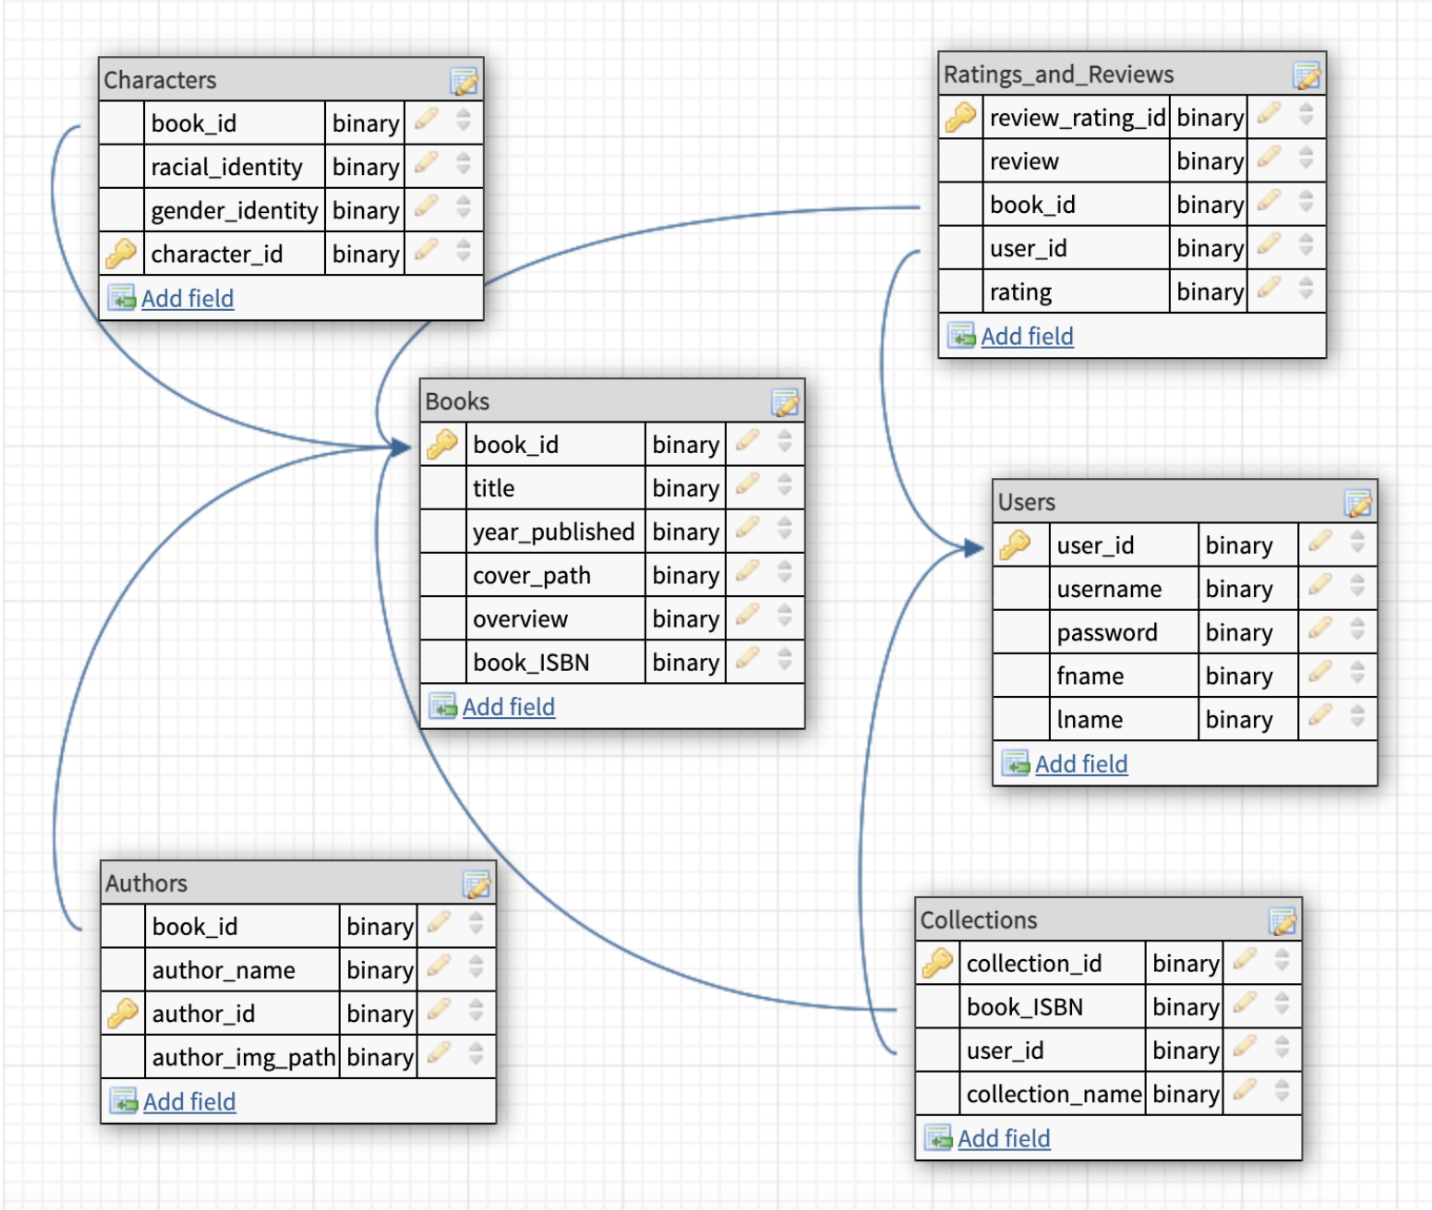
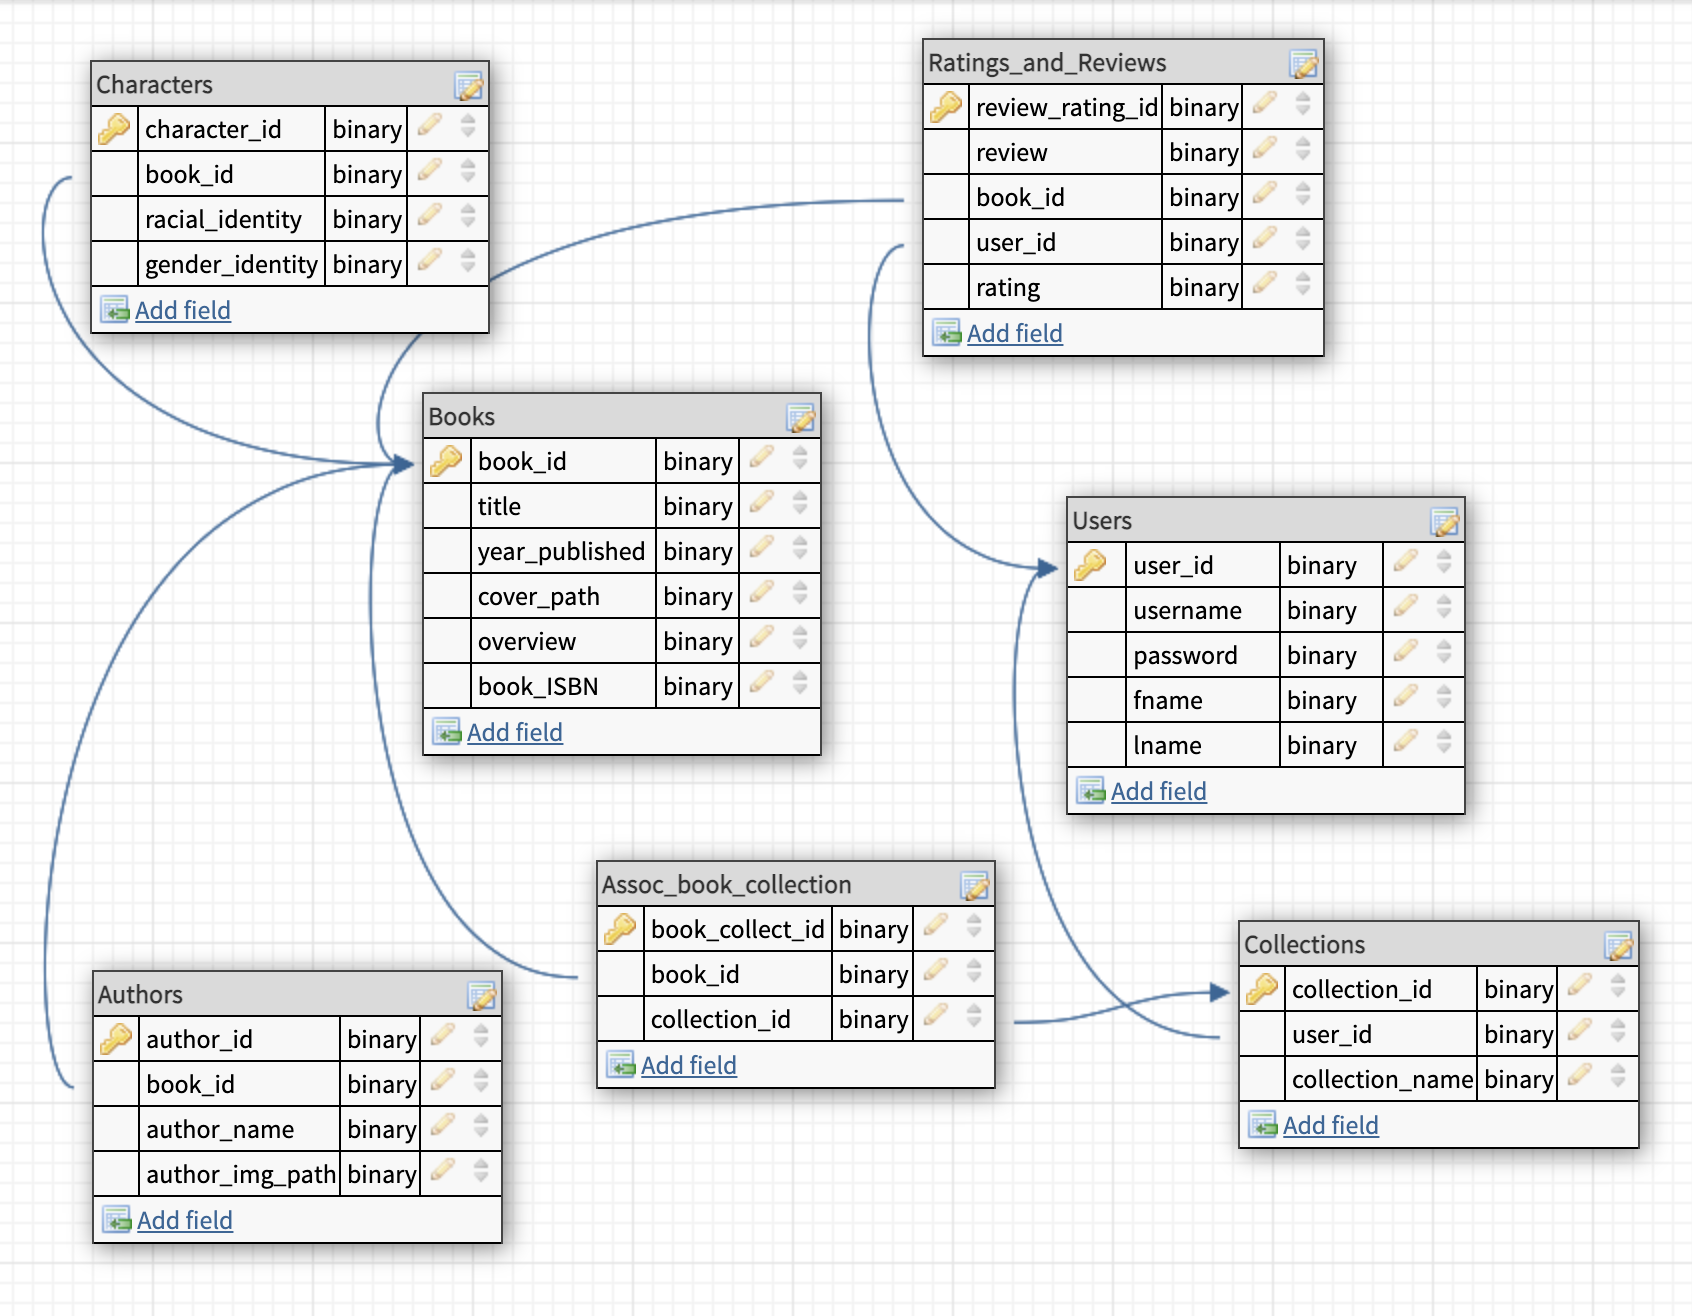
fixed bug on add collection form and updated model.py to have a collection/book association table

Changed region(s): [[0.0307, 0.0, 0.9832, 0.9785], [0.0922, 0.3058, 0.1536, 0.3364]]

diff --git a/templates/base.html b/templates/base.html
@@ -32,7 +32,7 @@
       <!-- navbar-light OR navbar-dark -->
       <nav class="navbar fixed-top navbar-expand-md navbar-dark bg-primary">
         <div class="container-fluid">
-          <a class="navbar-brand" href="/">EveryKid</a>
+          <a class="navbar-brand">EveryKid</a>
           <button class="navbar-toggler" type="button" data-bs-toggle="collapse" 
           data-bs-target="#navbarNavAltMarkup" aria-controls="navbarNavAltMarkup" 
           aria-expanded="false" aria-label="Toggle navigation">
@@ -40,7 +40,7 @@
           </button>
           <div class="collapse navbar-collapse" id="navbarNavAltMarkup">
             <div class="navbar-nav">
-              <a class="nav-link active" aria-current="page" href="/">Home</a>
+              <a class="nav-link active" aria-current="page" href="/">Find Books</a>
               <li class="nav-item dropdown">
                 <a class="nav-link dropdown-toggle" id="navbarScrollingDropdown" 
                 role="button" data-bs-toggle="dropdown" aria-expanded="false">About</a>
@@ -56,10 +56,6 @@
             </div>
           
           </div>
-
-          <!-- TODO: add an if statement here to have it say log-in if the user is not in the session 
-            # Could try to just change the text and keep the route_to_user_page OR if that doesn't
-            # work keep two separate buttons  -->
           
           {% if session.get('user_id') %}
           <form class="form-inline" action="/route_to_user_page">

diff --git a/templates/user_page.html b/templates/user_page.html
@@ -8,16 +8,20 @@
 {% block body %}
 <h1>Welcome, {{ user.fname }}!</h1>
 
-    <div>
-        <div id="create-collection-form"> New Collection <i class="fa-solid fa-plus"></i>
-        <form id="toggle-form" action="/create_collection" hidden>
-            <label for="collection"></label>
-            <input type="text" name="collection" placeholder="Collection Name">
-            <button class="button" type="submit">Create</button>
-        </form>
+<p id="create-collection-form"> Create New Collection <i class="fa-solid fa-plus"></i></p>
+    
+    <div id="collection-form" hidden>    
+    <form action="/create_collection">
+        <label for="collection"></label>
+        <input type="text" name="collection" placeholder="Collection Name">
+        <button class="button" type="submit">Create</button>
+    </form>
     </div>
+   
 
+    
 <h2>My Books</h2>
+The generic collection for each user --> {{ my_books_collection.collection_name}}
 <!-- the list my_books does NOT exist yet... putting placeholder code here -->
     {% if my_books|length == 0 %}
 

diff --git a/static/js/user_page.js b/static/js/user_page.js
@@ -1,7 +1,7 @@
 "use strict"
 
 const createCollection = document.querySelector('#create-collection-form');
-const toggleForm = document.querySelector('#toggle-form');
+const toggleForm = document.querySelector('#collection-form');
 
 createCollection.addEventListener('click', () => {
     if (toggleForm.hidden === true){

diff --git a/model.py b/model.py
@@ -18,9 +18,9 @@ class Book(db.Model):
     overview = db.Column(db.Text, nullable=False)
 
     characters = db.relationship("Character", back_populates="book")
-    collections = db.relationship("Collection", back_populates="book")
     ratings_and_reviews = db.relationship("Rating_and_Review", back_populates="book")
     authors = db.relationship("Author", back_populates="book")
+    books_to_collections = db.relationship("Assoc_book_collection", back_populates="book")
     
 
     def __repr__(self):
@@ -91,6 +91,46 @@ class User(db.Model):
         return f"<Name: {self.fname} {self.lname}, Username: {self.username}>"
 
 
+class Assoc_book_collection(db.Model):
+    """An association table to connect books to collections"""
+
+    __tablename__ = "books_to_collections"
+
+    book_collect_id = db.Column(db.Integer, primary_key=True, autoincrement=True)
+    book_id = db.Column(db.String, db.ForeignKey("books.book_id"))
+    collection_id = db.Column(db.Integer, db.ForeignKey("collections.collection_id"))
+
+    book = db.relationship("Book", back_populates="books_to_collections")
+    collection = db.relationship("Collection", back_populates="books_to_collections")
+
+    def __repr__(self):
+        """Shows the book_to_collection_id"""
+
+        return f"<Book to Collection ID: {self.book_collect_id}>"
+
+    
+class Collection(db.Model):
+    """A user's collection of books"""
+
+    __tablename__ = "collections"
+
+    collection_id = db.Column(db.Integer, primary_key=True, autoincrement=True)
+    user_id = db.Column(db.Integer, db.ForeignKey("users.user_id"))
+    collection_name = db.Column(db.String, nullable=False)
+    
+    user = db.relationship("User", back_populates="collections")
+    books_to_collections = db.relationship("Assoc_book_collection", 
+                                           back_populates="collection")
+
+
+    def __repr__(self):
+        """Showing the collection name of a Collection object."""
+
+        return f"<Collection Name: {self.collection_name}>"
+    
+
+#### RATINGS AND REVIEWS HAS NOT BEEN IMPLEMENTED YET, BUT THE DATA MODEL WILL
+# SUPPORT THIS FEATURE IF/WHEN I ADD IT: 
 class Rating_and_Review(db.Model):
     """A book rating of 1-5 stars and an optional review comment"""
 
@@ -112,27 +152,6 @@ class Rating_and_Review(db.Model):
 
         return f"<Rating/Review ID: {self.rating_review_id}>"
     
-
-class Collection(db.Model):
-    """A user's collection of books"""
-
-    __tablename__ = "collections"
-
-    collection_id = db.Column(db.Integer, primary_key=True, autoincrement=True)
-    user_id = db.Column(db.Integer, db.ForeignKey("users.user_id"))
-    book_id = db.Column(db.String, db.ForeignKey("books.book_id"))
-    collection_name = db.Column(db.String, nullable=False)
-    
-    user = db.relationship("User", back_populates="collections")
-    book = db.relationship("Book", back_populates="collections")
-
-
-    def __repr__(self):
-        """Showing the collection name of a Collection object."""
-
-        return f"<Collection Name: {self.collection_name}>"
-    
-
 
 def connect_to_db(flask_app, db_uri="postgresql:///books_db", echo=False):
     """Connect to database."""

diff --git a/server.py b/server.py
@@ -42,9 +42,16 @@ def user_page(user_id):
     """Display user's homepage"""
     
     user = crud.get_user_by_id(user_id)
-    collections = user.collections
 
-    return render_template('user_page.html', user=user, collections=collections)
+    my_books_collection = crud.create_collection(user_id, "My Books")
+
+    #TODO: do a get request to get the name of the collection and then use the 
+    # create_collection crud function OR could I do this with AJAX? Would need 
+    # some help getting started...
+
+    
+
+    return render_template('user_page.html', user=user, my_books_collection=my_books_collection)
 
 
 @app.route('/login', methods=["POST"])
@@ -90,6 +97,10 @@ def signup():
         model.db.session.add(user)
         model.db.session.commit()
         session["user_id"] = user.user_id
+        
+        my_books_collection = crud.create_collection(user.user_id, "My Books")
+        model.db.session.add(my_books_collection)
+        model.db.session.commit()
 
         flash("Account created!")
         return redirect ("/")
@@ -141,6 +152,10 @@ def show_book_details(book_id):
     recommended_books.remove(book)
 
     four_recs = set(random.sample(recommended_books, 4))
+
+    #TODO: a button that's a bookmark for each book and when clicked it would 
+    # send to a get request to get the book_id, store it in a session, plug it 
+    # into the crud function book_to_add, then add that to the database
 
     return render_template("book_details.html", book=book, four_recs=four_recs) 
 

diff --git a/crud.py b/crud.py
@@ -116,8 +116,7 @@ def get_all_users():
     return User.query.all()
 
 
-# TODO: Change this this FUNCTIONS if more than one... 
-# ----- FUNCTION FOR COLLECTIONS TABLE ----- #
+# ----- FUNCTIONS FOR COLLECTIONS TABLE ----- #
 def add_book_to_collection(user_id, book_id, collection_name):
     """Add a book to the collection"""
 
@@ -125,6 +124,7 @@ def add_book_to_collection(user_id, book_id, collection_name):
                             collection_name=collection_name)
     
     return book_to_add
+
 
 def create_collection(user_id, collection_name):
     """Create a collection"""
